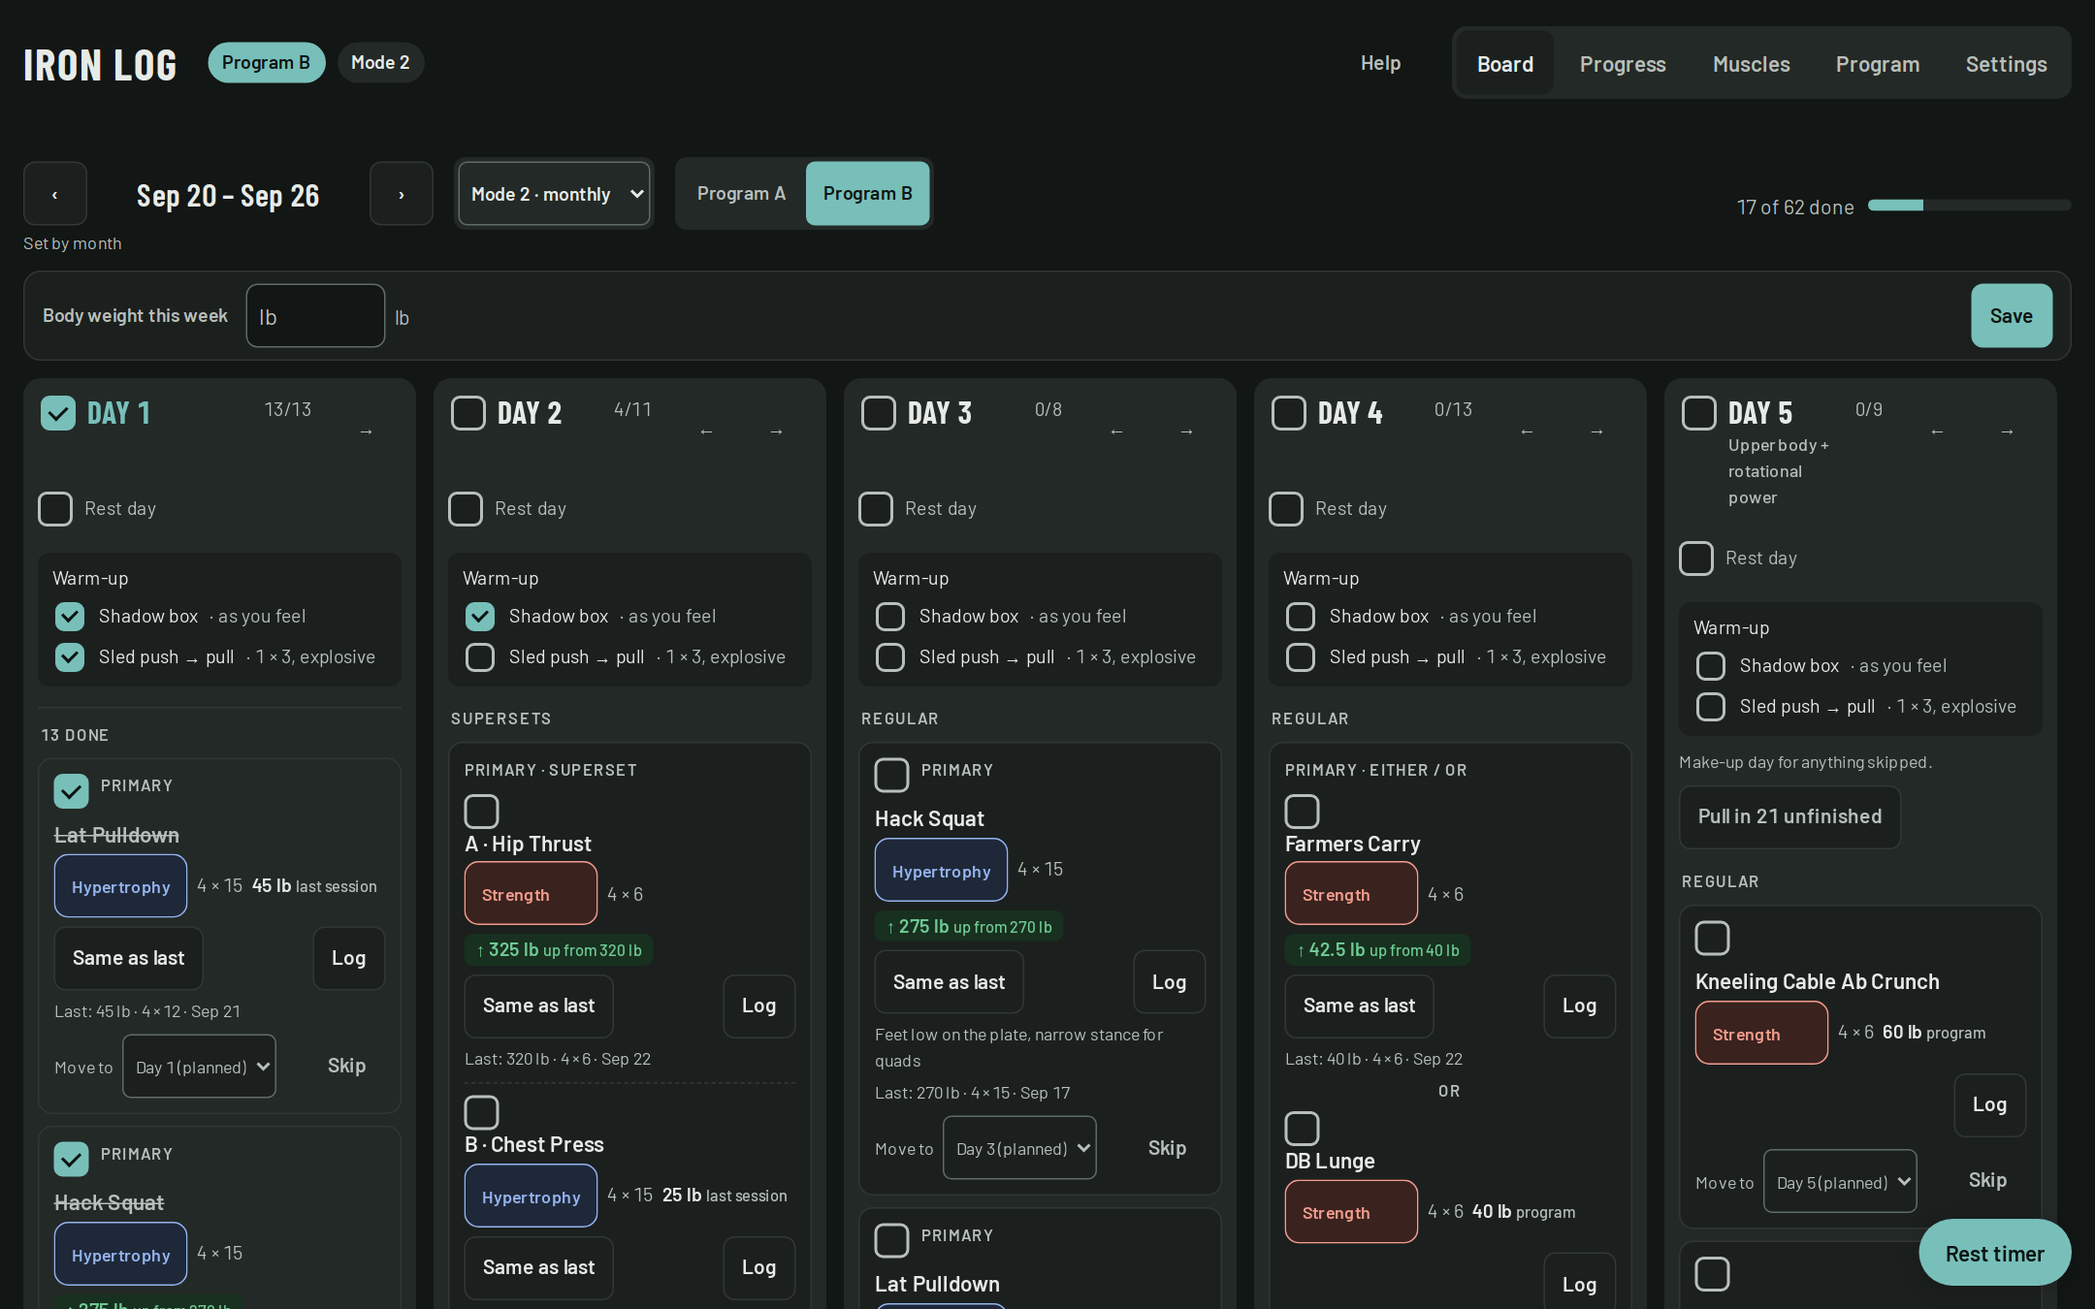
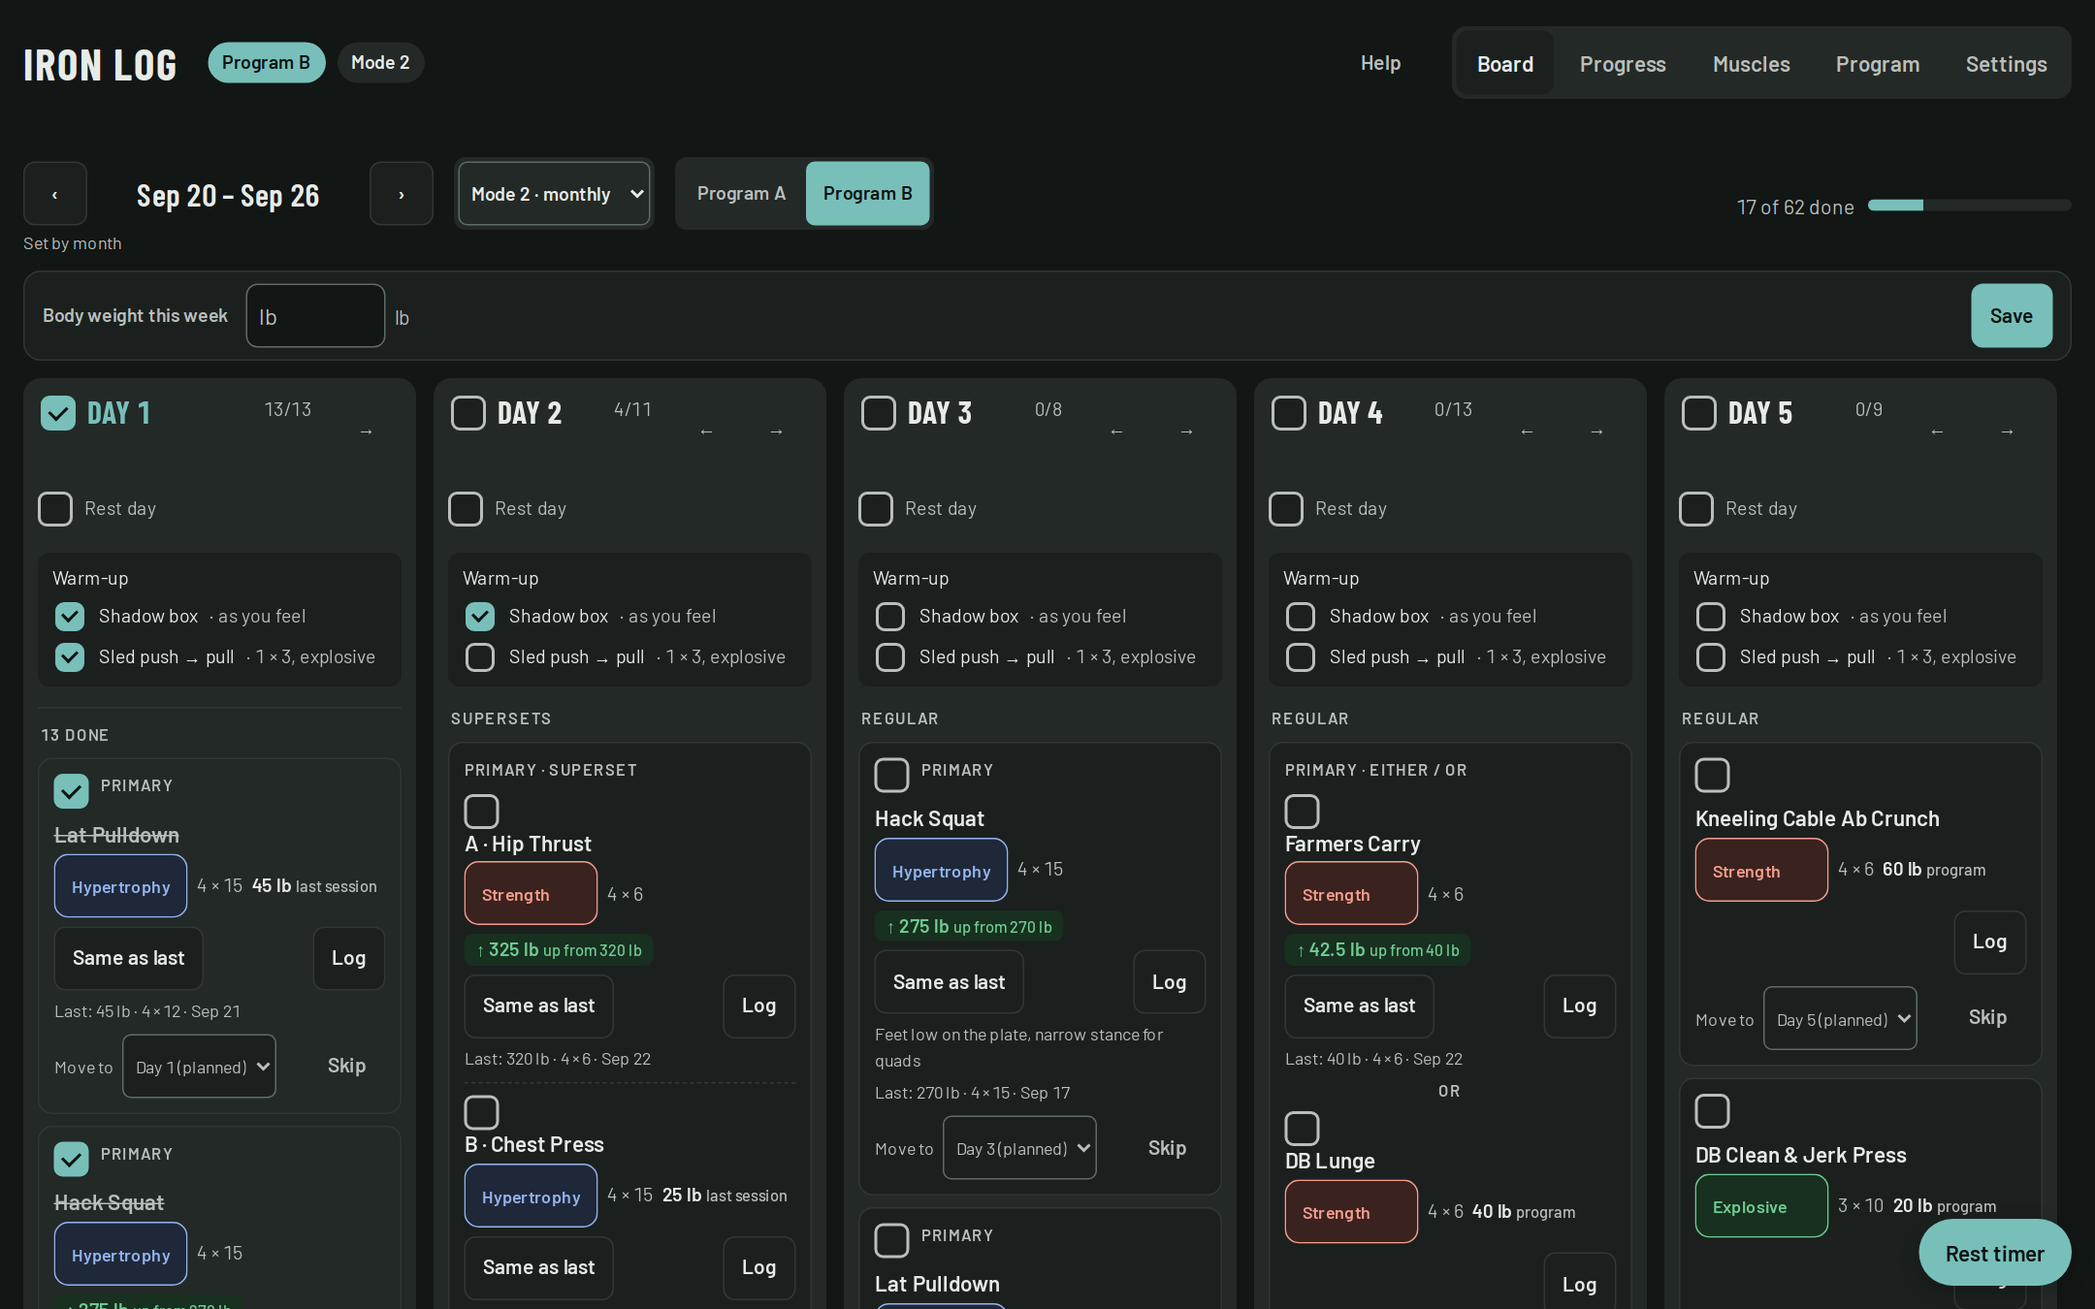
Suggest a clash-free day after a move; drop the pull button and the D… (#28)
* Suggest a clash-free day after a move; drop the pull button and the Day 5/6 subtitles

* Update README screenshots

---------

Changed region(s): [[0.8065, 0.3422, 0.9616, 0.9333], [0.8065, 0.9644, 0.8375, 0.9956]]

diff --git a/src/lib/logic.test.js b/src/lib/logic.test.js
@@ -4,7 +4,7 @@ import { BUILTIN, slotsFor } from './data.js';
 import {
   DEFAULT_CFG, programFor, round, rxOf, progressionOf, stallOf, targetOf, summarizeSets, setsOfEntry, describe as describeEntry,
   isDone, isItemDone, setCardDone, setItemDone, tally, normWeek, defaultLogDate, currentLayout, moveClashes,
-  programWeights, bestByPhase, autoLogs, DAYS, shownDay, programDay, dayTitle, restBlocked, isOrder, orderOf, posOf, colOf, dayAt, pullable, dayDate,
+  programWeights, bestByPhase, autoLogs, DAYS, shownDay, programDay, dayTitle, restBlocked, isOrder, orderOf, posOf, colOf, dayAt, altDay, dayDate,
 } from './logic.js';
 
 const cfg = (over = {}) => ({ ...structuredClone(DEFAULT_CFG), ...over });
@@ -301,19 +301,32 @@ describe('swapped day order', () => {
   });
 });
 
-describe('pullable: unfinished workouts that sit before the make-up', () => {
+describe('altDay: the nearest day a moved card would not clash', () => {
   const mk = (id, day) => ({ id, day, type: 'single', items: [{ ex: 'hack', ph: 'hyp' }] });
-  const slots = [mk('a', 1), mk('d4', 4), mk('d6', 6)];
-  const idsOf = r => r.map(s => s.id);
-  it('with no order is the Day 1-4 workouts', () => {
-    expect(idsOf(pullable({ moved: {} }, slots))).toEqual(['a', 'd4']);
-    expect(idsOf(pullable({}, slots))).toEqual(['a', 'd4']);
+  const other = (id, day) => ({ id, day, type: 'single', items: [{ ex: 'legext', ph: 'hyp' }] });
+  const c = cfg();
+  it('picks the nearest clash-free day, the later one on a tie', () => {
+    // Hack is already on Day 4; the moved card (home Day 7) was dropped on Day 4 too.
+    const slots = [mk('a', 4), mk('x', 7)];
+    const w = normWeek({ moved: { x: 4 } });
+    expect(altDay(c, w, slots, slots[1], 4, 7)).toBe(6); // Days 3 and 5 sit next to Day 4; 6 and 2 tie, 6 wins
   });
-  it('follows a swapped order: Day 4 sits after the make-up, Day 6 before it', () => {
-    const w = { moved: {}, order: [1, 2, 3, 5, 4, 6, 7] };
-    expect(idsOf(pullable(w, slots))).toEqual(['a']);
-    expect(idsOf(pullable({ moved: {}, order: [1, 2, 3, 4, 6, 5, 7] }, slots))).toEqual(['a', 'd4', 'd6']);
-    expect(idsOf(pullable({ moved: {}, order: [1, 2, 3, 6, 5, 4, 7] }, slots))).toEqual(['a', 'd6']);
+  it('skips the day the card came from', () => {
+    const slots = [mk('a', 4), mk('x', 6)];
+    expect(altDay(c, normWeek({ moved: { x: 4 } }), slots, slots[1], 4, 6)).toBe(2);
+  });
+  it('skips the rest day', () => {
+    const slots = [mk('a', 4), mk('x', 7)];
+    expect(altDay(c, normWeek({ moved: { x: 4 }, rest: 6 }), slots, slots[1], 4, 7)).toBe(2);
+  });
+  it('ignores other exercises and skipped cards', () => {
+    const slots = [mk('a', 1), other('b', 3), mk('s', 3), mk('x', 7)];
+    const w = normWeek({ moved: { x: 2 }, skipped: { s: true } });
+    expect(altDay(c, w, slots, slots[3], 2, 7)).toBe(3); // Day 3 only has a different exercise and a skipped Hack
+  });
+  it('is null when every other day clashes', () => {
+    const slots = [mk('a', 1), mk('b', 3), mk('c', 5), mk('d', 7), mk('x', 2)];
+    expect(altDay(c, normWeek({ moved: { x: 4 } }), slots, slots[4], 4, 2)).toBeNull();
   });
 });
 

diff --git a/src/components/board/Board.jsx b/src/components/board/Board.jsx
@@ -3,7 +3,7 @@ import { useAppStore } from '../../store/useAppStore.js';
 import { useToday } from '../../store/useToday.js';
 import { WARMUP, slotsFor } from '../../lib/data.js';
 import { monday, ymd, addDays, fmtShort, fmtDayDate } from '../../lib/dates.js';
-import { tally, currentLayout, isOpen, pullable, isSkipped, programFor, progName, DAYS, dayAt, dayTitle, dayDate } from '../../lib/logic.js';
+import { tally, currentLayout, isOpen, isSkipped, programFor, progName, DAYS, dayAt, dayTitle, dayDate } from '../../lib/logic.js';
 import { LS } from '../../lib/storage.js';
 import { daysSince } from '../../lib/export.js';
 import { motionOK } from '../../lib/motion.js';
@@ -146,6 +146,7 @@ export default function Board() {
         <div className="notice movewarn" role="status" ref={moveRef}>
           <div><b>Heads-up:</b> {moveNote.lines.join(' ')}</div>
           <div className="actions">
+            {moveNote.alt && <button type="button" className="btn sm" onClick={() => st.moveSlot(moveNote.slot, moveNote.alt)}>Move to Day {moveNote.alt} instead</button>}
             <button type="button" className="btn sm" onClick={st.undoMove}>Move back to Day {moveNote.fromShown}</button>
             <button type="button" className="btn sm ghost" onClick={st.dismissMove}>Keep it</button>
           </div>
@@ -191,7 +192,6 @@ export default function Board() {
           const date = dayDate(list, logs, wk);
           const t = tally(list, week);
           const warm = week.warm[pd] || {};
-          const pending = dayDef.makeup ? pullable(week, slots).length : 0;
           // Unfinished cards first (grouped by section); done and skipped ones drop to the bottom.
           const open = list.filter(s => isOpen(s, week));
           const finished = [...list.filter(s => !isOpen(s, week) && !isSkipped(s, week)), ...list.filter(s => isSkipped(s, week))];
@@ -225,12 +225,6 @@ export default function Board() {
                   </label>
                 ))}
               </div>
-              {dayDef.makeup && (
-                <div className="makeup">
-                  Make-up day for anything skipped.{' '}
-                  {pending > 0 && <button type="button" className="btn sm" onClick={st.pullUnfinished}>Pull in {pending} unfinished</button>}
-                </div>
-              )}
               {open.map((s, i) => {
                 const sec = secOf(s, pd);
                 const newSec = i === 0 || sec !== secOf(open[i - 1], pd);

diff --git a/src/lib/data.js b/src/lib/data.js
@@ -111,7 +111,7 @@ const PROGRAM_A = {
       { sec: 'Home', items: [I('grip', 'strength', 200)] },
       { sec: 'Home', items: [I('deskbands', null, null, { bw: true })] },
     ] },
-    { title: 'Day 5', sub: 'Upper body + rotational power', makeup: true, slots: [
+    { title: 'Day 5', makeup: true, slots: [
       { sec: 'Regular', items: [I('cablecrunch', 'strength', 60)] },
       { sec: 'Regular', items: [I('dbclean', 'exp', 20)] },
       { sec: 'Regular', items: [I('hack', 'hyp', 270, { note: 'Feet low on the plate, narrow stance for quads' })] },
@@ -123,7 +123,7 @@ const PROGRAM_A = {
       { sec: 'Home', items: [I('db6', 'strength', 10, { rx: '2 × 6' })] },
       { sec: 'Home', items: [I('spinal', null, null, { bw: true })] },
     ] },
-    { title: 'Day 6', sub: 'Lower body + reactive power', slots: [
+    { title: 'Day 6', slots: [
       { sec: 'Plyometric', items: [I('pogo', 'exp', null, { bw: true, rx: '3 × 10' })] },
       { sec: 'Plyometric', items: [I('skater', 'exp', null, { bw: true, rx: '3 × 5, hold 3 s' })] },
       { sec: 'Plyometric', items: [I('splitjump', 'exp', null, { bw: true, rx: '3 × 5', note: 'Vertical drive, soft landings' })] },
@@ -182,7 +182,7 @@ const PROGRAM_B = {
       { sec: 'Home', items: [I('grip', 'strength', 200)] },
       { sec: 'Home', items: [I('deskbands', null, null, { bw: true })] },
     ] },
-    { title: 'Day 5', sub: 'Upper body + rotational power', makeup: true, slots: [
+    { title: 'Day 5', makeup: true, slots: [
       { sec: 'Regular', items: [I('cablecrunch', 'strength', 60)] },
       { sec: 'Regular', items: [I('dbclean', 'exp', 20)] },
       { sec: 'Regular', ...EITHER_DELT },
@@ -193,7 +193,7 @@ const PROGRAM_B = {
       { sec: 'Home', items: [I('db6', 'strength', 10, { rx: '2 × 6' })] },
       { sec: 'Home', items: [I('spinal', null, null, { bw: true })] },
     ] },
-    { title: 'Day 6', sub: 'Lower body + reactive power', slots: [
+    { title: 'Day 6', slots: [
       { sec: 'Plyometric', items: [I('pogo', 'exp', null, { bw: true, rx: '3 × 10' })] },
       { sec: 'Plyometric', items: [I('skater', 'exp', null, { bw: true, rx: '3 × 5, hold 3 s' })] },
       { sec: 'Plyometric', items: [I('splitjump', 'exp', null, { bw: true, rx: '3 × 5', note: 'Vertical drive, soft landings' })] },

diff --git a/src/store/useAppStore.js b/src/store/useAppStore.js
@@ -3,7 +3,7 @@ import { BUILTIN, resolveProgram, slotsFor, padLibrary } from '../lib/data.js';
 import { monday, ymd, addDays } from '../lib/dates.js';
 import {
   DEFAULT_CFG, normWeek, activeProgKey, programFor, phaseOf, lastLog, describe,
-  setCardDone, setItemDone, clearDone, isSkipped, pullable, currentLayout, dayAt, colOf, orderOf, DAYS, restBlocked, moveClashes, defaultLogDate, autoLogs,
+  setCardDone, setItemDone, clearDone, isSkipped, currentLayout, dayAt, colOf, orderOf, DAYS, restBlocked, moveClashes, altDay, defaultLogDate, autoLogs,
 } from '../lib/logic.js';
 import { LS, makeSaveQueue } from '../lib/storage.js';
 import { editorSlice } from './editorSlice.js';
@@ -228,10 +228,6 @@ export const useAppStore = create((set, get) => ({
   setPhase(slotId, idx, ph) { get().mutateWeek(w => { w.ph[`${slotId}:${idx}`] = ph; }); },
   setWeekProg(k) { const auto = programFor(get().cfg, get().weekStart); get().mutateWeek(w => { w.prog = k === auto ? null : k; }); },
   setMode(mode) { get().mutateCfg(c => { c.mode = mode; }); },
-  pullUnfinished() {
-    const slots = get().activeSlots();
-    get().mutateWeek(w => { pullable(w, slots).forEach(s => { w.moved[s.id] = 5; }); });
-  },
 
   moveSlot(slotId, day) {
     const s = get().slotById(slotId); if (!s) return;
@@ -242,8 +238,9 @@ export const useAppStore = create((set, get) => ({
     const ok = get().mutateWeek(w => { if (pd === s.day) delete w.moved[slotId]; else w.moved[slotId] = pd; });
     if (!ok) return;
     const { cfg, week } = get();
-    const clashes = moveClashes(cfg, week, get().activeSlots(), s, day);
-    set({ moveNote: clashes.length ? { slot: slotId, from, fromShown: colOf(week0, from), to: day, week: get().weekKey(), lines: clashes } : null });
+    const slots = get().activeSlots(); const clashes = moveClashes(cfg, week, slots, s, day);
+    const fromShown = colOf(week0, from);
+    set({ moveNote: clashes.length ? { slot: slotId, from, fromShown, to: day, week: get().weekKey(), lines: clashes, alt: altDay(cfg, week, slots, s, day, fromShown) } : null });
     flag(clashes.length ? `Moved to Day ${day} · heads-up` : `Moved to Day ${day}`);
   },
   undoMove() {

diff --git a/src/lib/logic.js b/src/lib/logic.js
@@ -168,7 +168,6 @@ export const colOf = (w, d) => shownDay(w.rest, posOf(w, d)); // displayed colum
 export const dayAt = (w, c) => { const p = programDay(w.rest, c); return p == null ? null : orderOf(w)[p - 1]; }; // program day shown in column c; null on the rest column
 export const dayTitle = (day, d) => (!day.title || /^Day \d+$/.test(day.title) ? `Day ${d}` : day.title);
 // The shift would push a workout off the board when something sits in the last workout position.
-export const pullable = (w, slots) => { const mp = posOf(w, 5); return slots.filter(s => posOf(w, s.day) < mp && posOf(w, (w.moved && w.moved[s.id]) || s.day) < mp && isOpen(s, w)); }; // unfinished workouts that sit before the make-up
 export const restBlocked = (week, slots) => slots.some(s => posOf(week, (week.moved && week.moved[s.id]) || s.day) === DAY_COUNT);
 export function currentLayout(week, slots) {
   const cols = Object.fromEntries(DAYS.map(d => [d, []]));
@@ -195,6 +194,15 @@ export function moveClashes(cfg, week, slots, s, day) {
     });
   });
   return [...new Set(out)];
+}
+
+// Nearest column to `day` where the card wouldn't clash, skipping the rest day and `from`; a tie goes to the later day.
+export function altDay(cfg, week, slots, s, day, from) {
+  for (let k = 1; k < DAY_COUNT; k++) for (const c of [day + k, day - k]) {
+    if (c < 1 || c > DAY_COUNT || c === from || dayAt(week, c) == null) continue;
+    if (!moveClashes(cfg, week, slots, s, c).length) return c;
+  }
+  return null;
 }
 
 export function holdPlan(cfg, week, logs, slot, idx) {

diff --git a/src/store/useAppStore.test.js b/src/store/useAppStore.test.js
@@ -200,11 +200,17 @@ describe('swap days', () => {
     st().undoMove();
     expect(st().week.moved['A-d1s1']).toBeUndefined();
   });
-  it('make-up pulls in workouts by position, not program day', () => {
-    st().swapDays(4, 1); // Day 4 workout now sits after the make-up column
-    st().pullUnfinished();
-    expect(st().week.moved['A-d4s1']).toBeUndefined();
-    expect(st().week.moved['A-d1s1']).toBe(5);
+  it('a move that clashes suggests a clash-free day, and moving there clears the heads-up', () => {
+    // A-d6s5 (Arnold Press + Zercher Squat) is also on Day 4 as A-d4s4; Day 5 sits right after it.
+    st().moveSlot('A-d6s5', 5);
+    expect(st().moveNote.lines.length).toBeGreaterThan(0);
+    expect(st().moveNote.alt).toBe(7); // Day 6 is where it came from; Day 7 is empty
+    st().moveSlot('A-d6s5', st().moveNote.alt);
+    expect(st().moveNote).toBeNull();
+  });
+  it('a move with no clash has no suggestion', () => {
+    st().moveSlot('A-d6s5', 7);
+    expect(st().moveNote).toBeNull();
   });
   it('keeps a warm-up tick with its workout across a swap', () => {
     st().swapDays(6, 1);

diff --git a/src/components/sheets/HelpSheet.jsx b/src/components/sheets/HelpSheet.jsx
@@ -19,7 +19,7 @@ const GLOSSARY = [
   ['Primary / secondary muscles', 'Muscles an exercise mainly works, and ones it works less. Secondary work counts as half a set on the Muscles tab.'],
   ['Mobility', 'Stretching or movement work. It isn’t counted toward any muscle.'],
   ['Warm-up', 'Short exercises before each day’s session.'],
-  ['Make-up day', 'Normally Day 5 (a rest day earlier in the week shifts it later). You can pull in anything left unfinished from the days before it.'],
+  ['Make-up day', 'Day 5 is meant for anything you skipped earlier in the week. Use Move to put exercises there.'],
   ['Skip', 'Leaves an exercise out of this week’s counts without deleting it.'],
   ['D1 to D7', 'Day 1 to Day 7 of the week’s plan.'],
   ['Rest day', 'Tick Rest day on a day to rest. Your workouts from that day on move one day later, and the rest day counts as done. Untick to undo. You can’t add one while Day 7 has exercises.'],

diff --git a/src/styles.css b/src/styles.css
@@ -259,7 +259,6 @@ body.timing{padding-bottom:130px}
 .warm label{display:flex;gap:8px;align-items:center}
 .warm .chk{width:18px;height:18px}
 .warm .chk:checked::after{width:8px;height:5px}
-.makeup{font-size:12px;color:var(--muted);display:flex;gap:8px;align-items:center;flex-wrap:wrap}
 
 .card{background:var(--surface);border:1px solid var(--line);border-radius:10px;padding:10px;display:flex;flex-direction:column;gap:8px;box-shadow:var(--shadow)}
 .card[draggable="true"]{cursor:grab}

diff --git a/README.md b/README.md
@@ -46,7 +46,7 @@ It's a React app built with Vite. You can install it on your phone or computer l
 
 ## Features
 
-- **Weekly board.** One column per training day (Sunday to Saturday week). You can check off exercises one at a time or a whole day at once. In a superset each exercise has its own checkbox and counts on its own; an either/or counts once, whichever option you do. When equipment is taken, drag a card to another day (or use "Move to" on a phone). If the move puts an exercise on the same day as, or the day next to, another session of that exercise, a heads-up says so and offers to move it back. The make-up day (normally Day 5) can pull in anything left unfinished. **Skip** takes an exercise out of this week's counts without deleting it, and checking it off later undoes the skip. Checking off an exercise you haven't logged also logs its planned numbers (the target weight and sets × reps on the card), marked "from check-off", so it shows in Progress; unchecking removes that entry, and logging your real numbers replaces it. Done and skipped exercises drop to the bottom of their day, so what's left is always on top.
+- **Weekly board.** One column per training day (Sunday to Saturday week). You can check off exercises one at a time or a whole day at once. In a superset each exercise has its own checkbox and counts on its own; an either/or counts once, whichever option you do. When equipment is taken, drag a card to another day (or use "Move to" on a phone). If the move puts an exercise on the same day as, or the day next to, another session of that exercise, a heads-up says so, offers to move it back, and suggests the nearest day where it wouldn't clash. The make-up day (normally Day 5) is for anything skipped earlier in the week. **Skip** takes an exercise out of this week's counts without deleting it, and checking it off later undoes the skip. Checking off an exercise you haven't logged also logs its planned numbers (the target weight and sets × reps on the card), marked "from check-off", so it shows in Progress; unchecking removes that entry, and logging your real numbers replaces it. Done and skipped exercises drop to the bottom of their day, so what's left is always on top.
 - **Rest day.** Tick Rest day on any day of the week and your workouts from that day on move one day later. Untick to put them back.
 - **Swap days.** Small arrows on each day swap it with its neighbor for the current week. The next week starts in your program's normal order.
 - **Day dates.** Each day's header shows the weekday and date once something on it is logged or checked off, so you can see which days you trained.
